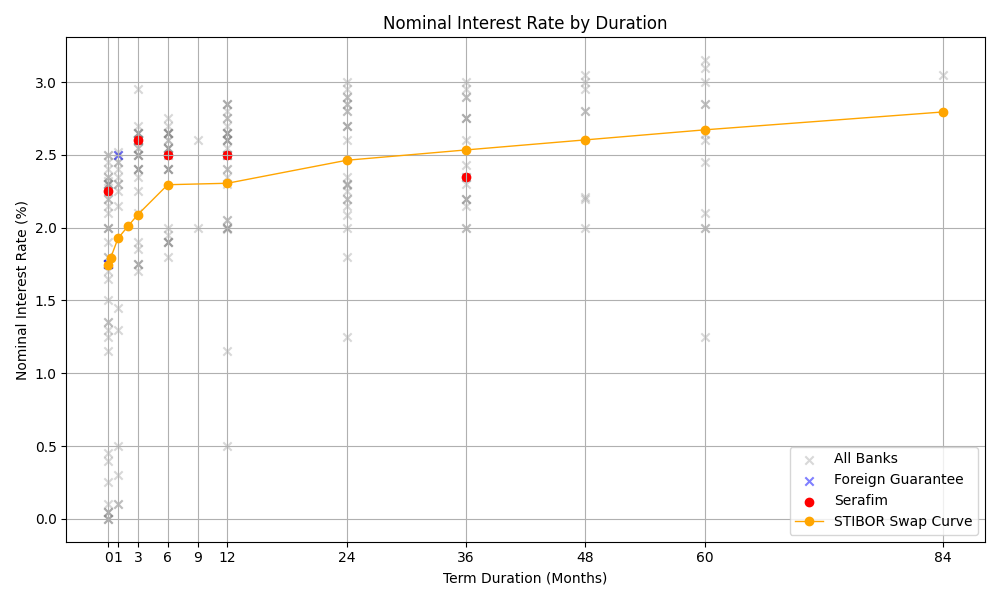
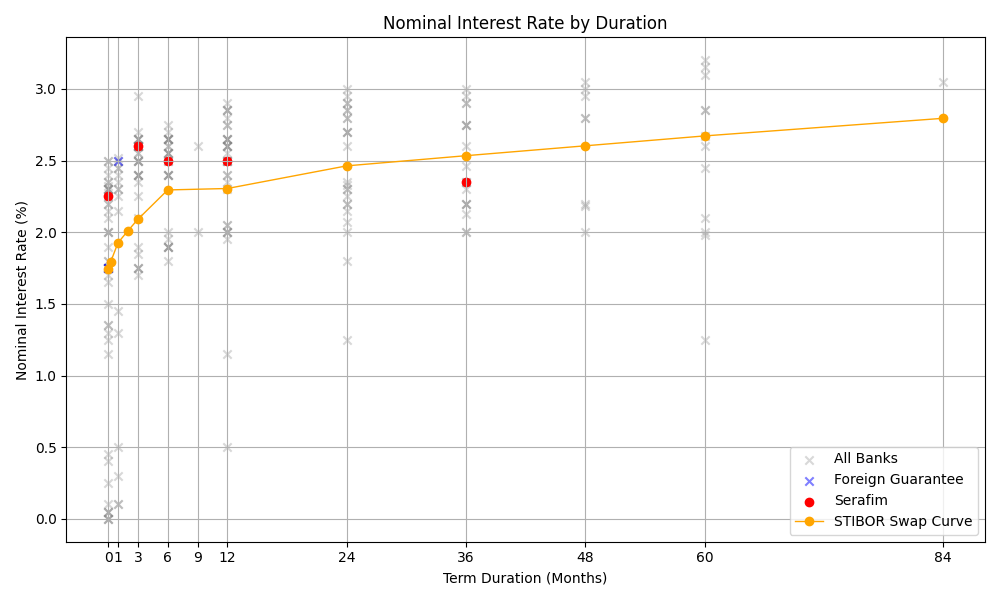
upd

diff --git a/Serafim/index.html b/Serafim/index.html
@@ -81,7 +81,7 @@
 
     <h1>Competitor Overview - Serafim</h1>
     <div style="text-align: right; color: #555; font-size: 0.9em;">
-        Updated: 2026-05-05
+        Updated: 2026-05-06
     </div>
     
     <!-- Tab buttons -->
@@ -396,7 +396,7 @@
       <td>-</td>
       <td>-</td>
       <td>-</td>
-      <td>-</td>
+      <td>2.60</td>
       <td>-</td>
       <td>-</td>
       <td>-</td>
@@ -519,8 +519,8 @@
       <th>JAK Medlemsbank</th>
       <td>1.50</td>
       <td>-</td>
-      <td>2.95 (+0.20)</td>
-      <td>1.95 (+0.25)</td>
+      <td>2.95</td>
+      <td>1.95</td>
       <td>-</td>
       <td>-</td>
       <td>-</td>
@@ -592,11 +592,11 @@
       <td>-</td>
       <td>-</td>
       <td>-</td>
-      <td>2.70</td>
+      <td>2.90 (+0.20)</td>
       <td>2.80</td>
       <td>-</td>
       <td>-</td>
-      <td>3.00</td>
+      <td>3.20 (+0.20)</td>
       <td>-</td>
     </tr>
     <tr>
@@ -676,11 +676,11 @@
       <td>1.75</td>
       <td>1.80</td>
       <td>-</td>
-      <td>1.99 (+0.01)</td>
-      <td>2.29 (-0.06)</td>
-      <td>2.43 (-0.07)</td>
+      <td>1.95 (-0.04)</td>
+      <td>2.33 (+0.04)</td>
+      <td>2.46 (+0.03)</td>
       <td>-</td>
-      <td>2.64 (-0.07)</td>
+      <td>2.67 (+0.03)</td>
       <td>-</td>
     </tr>
     <tr>
@@ -733,10 +733,10 @@
       <td>1.90</td>
       <td>-</td>
       <td>2.05</td>
-      <td>2.09</td>
-      <td>2.15</td>
-      <td>2.21 (+0.01)</td>
-      <td>2.00</td>
+      <td>2.07 (-0.02)</td>
+      <td>2.13 (-0.02)</td>
+      <td>2.18 (-0.03)</td>
+      <td>1.98 (-0.02)</td>
       <td>-</td>
     </tr>
     <tr>
@@ -808,17 +808,17 @@
   </thead>
   <tbody>
     <tr>
-      <th>JAK Medlemsbank</th>
-      <td>1.50</td>
-      <td>-</td>
-      <td>2.95 (+0.20)</td>
-      <td>1.95 (+0.25)</td>
+      <th>Ikano Bank</th>
+      <td>1.15</td>
+      <td>1.45</td>
       <td>-</td>
       <td>-</td>
       <td>-</td>
+      <td>2.90 (+0.20)</td>
+      <td>2.80</td>
       <td>-</td>
       <td>-</td>
-      <td>-</td>
+      <td>3.20 (+0.20)</td>
       <td>-</td>
     </tr>
     <tr>
@@ -828,11 +828,11 @@
       <td>1.75</td>
       <td>1.80</td>
       <td>-</td>
-      <td>1.99 (+0.01)</td>
-      <td>2.29 (-0.06)</td>
-      <td>2.43 (-0.07)</td>
+      <td>1.95 (-0.04)</td>
+      <td>2.33 (+0.04)</td>
+      <td>2.46 (+0.03)</td>
       <td>-</td>
-      <td>2.64 (-0.07)</td>
+      <td>2.67 (+0.03)</td>
       <td>-</td>
     </tr>
     <tr>
@@ -843,10 +843,10 @@
       <td>1.90</td>
       <td>-</td>
       <td>2.05</td>
-      <td>2.09</td>
-      <td>2.15</td>
-      <td>2.21 (+0.01)</td>
-      <td>2.00</td>
+      <td>2.07 (-0.02)</td>
+      <td>2.13 (-0.02)</td>
+      <td>2.18 (-0.03)</td>
+      <td>1.98 (-0.02)</td>
       <td>-</td>
     </tr>
   </tbody>